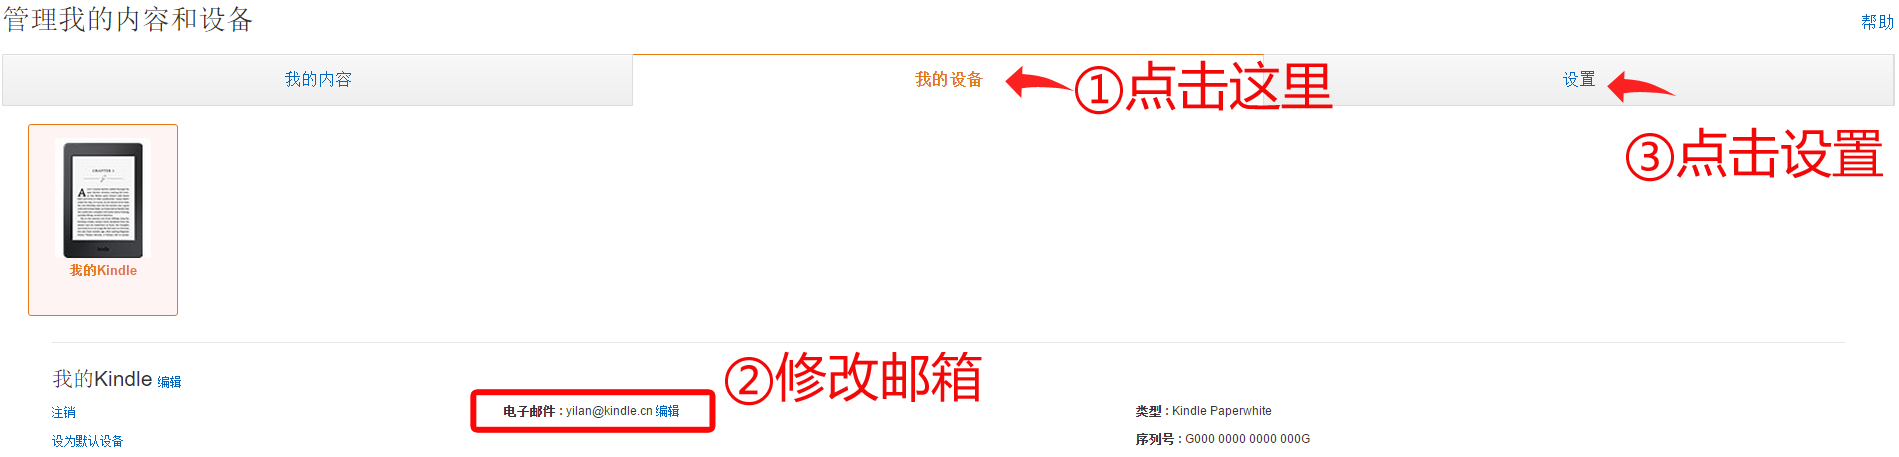
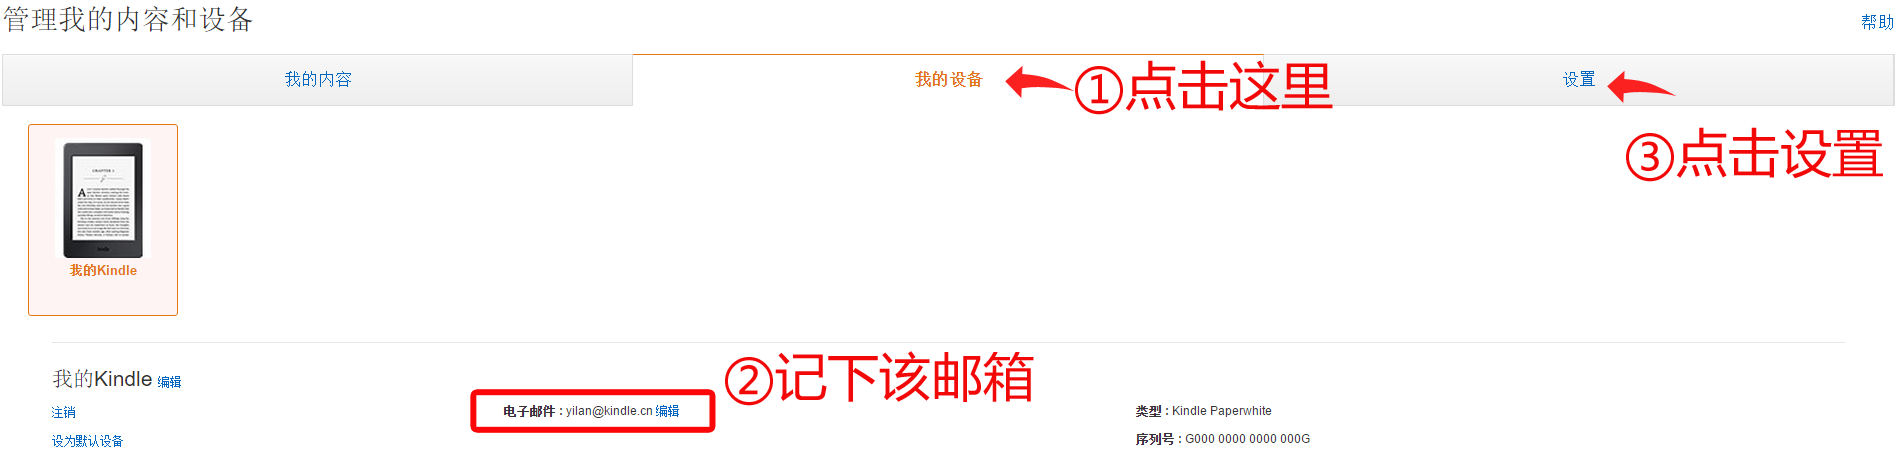
blog update

diff --git a/_posts/push-kindle.md b/_posts/push-kindle.md
@@ -1,45 +1,45 @@
 ![Banner](/img/8/8-Banner.png)
 
-哟，迎着春风，踏着青，揣着 Kindle ，换心情。
+哟，迎着春风，踏踏青，揣着 Kindle ，换心情。
 
 新款 Kindle 上市在即，我们推送至 Kindle 的服务也踩着节奏上线了。
 
-现在加入一览 VIP 会员，即将你订阅的站点文章推送至 Kindle，用极致的阅读体验，享受最新鲜的资讯。
+现在加入一览 VIP 会员，即可将您订阅的站点文章推送至 Kindle，用极致的阅读体验，享受最新鲜的资讯。
 
 ### 如何开启定时推送至 Kindle
 
 准备工作：
 
-在[亚马逊(中国)](http://www.amazon.cn)注册一个帐号，并在你的 Kindle 上使用该帐号登录。
+在[亚马逊(中国)](http://www.amazon.cn)注册一个帐号，并在您的 Kindle 上使用该帐号登录。
 
-在亚马逊网站打开我的帐户下拉菜单 -> 管理我的内容和设备。
+在亚马逊网站打开“我的帐户”下拉菜单，点击“管理我的内容和设备”。
 
 ![我的账户](/img/8/8-amazon-accountbox.png)
 
-1. 如图中 ① 所示，点击“我的设备”
+* 1、如下图中 ① 所示，点击“我的设备”
 
-2. 记住图 ② 位置的电子邮件。（可以编辑修改）
+* 2.、记住图 ② 位置的电子邮件。（可以编辑修改）
 
 ![我的设备](/img/8/8-my-device.png)
 
-3. 如图中 ③ 所示，点击“设置”
+* 3、如图中 ③ 所示，点击“设置”
 
-4. 将页面拉到最底部，“在已认可的发件人电子邮箱列表”下面添加：no-reply@mail.yilan.io
+* 4、将页面拉到最底部，“在已认可的发件人电子邮箱列表”下面添加：no-reply@mail.yilan.io
 
 ![我的设置](/img/8/8-my-setting-add-mail.png)
 
-5. 回到一览，在右上角头像弹出的菜单内，选择“账号设置”，如图 ⑤ 所示。
+* 5、回到一览，在右上角头像弹出的菜单内，选择“账号设置”，如图 ⑤ 所示。
 
 找到“Kindle推送设置”，在接受邮箱处填写上图 ② 位置的邮箱。
 
 “每日推送文章数”可以自行修改，默认为 20 篇。
 
-![筛选已订阅的站点](/img/8/8-yilan-kindle-setting.png)
+![在一览中设置](/img/8/8-yilan-kindle-setting.png)
 
 
 ### 选择想要推送的站点
 
-6. 如图 ⑥ ，选择“管理订阅”
+* 6、如图 ⑥ ，选择“管理订阅”
 
 在想要推送到 Kindle 的订阅站点后面，勾选。
 
@@ -55,6 +55,6 @@
 
 以上便是推送到 Kindle 功能的简要介绍，抽空去试试吧！
 
-如果你有什么意见或者建议，欢迎反馈！
+如果您有什么意见或者建议，欢迎反馈！
 
 谢谢支持！
